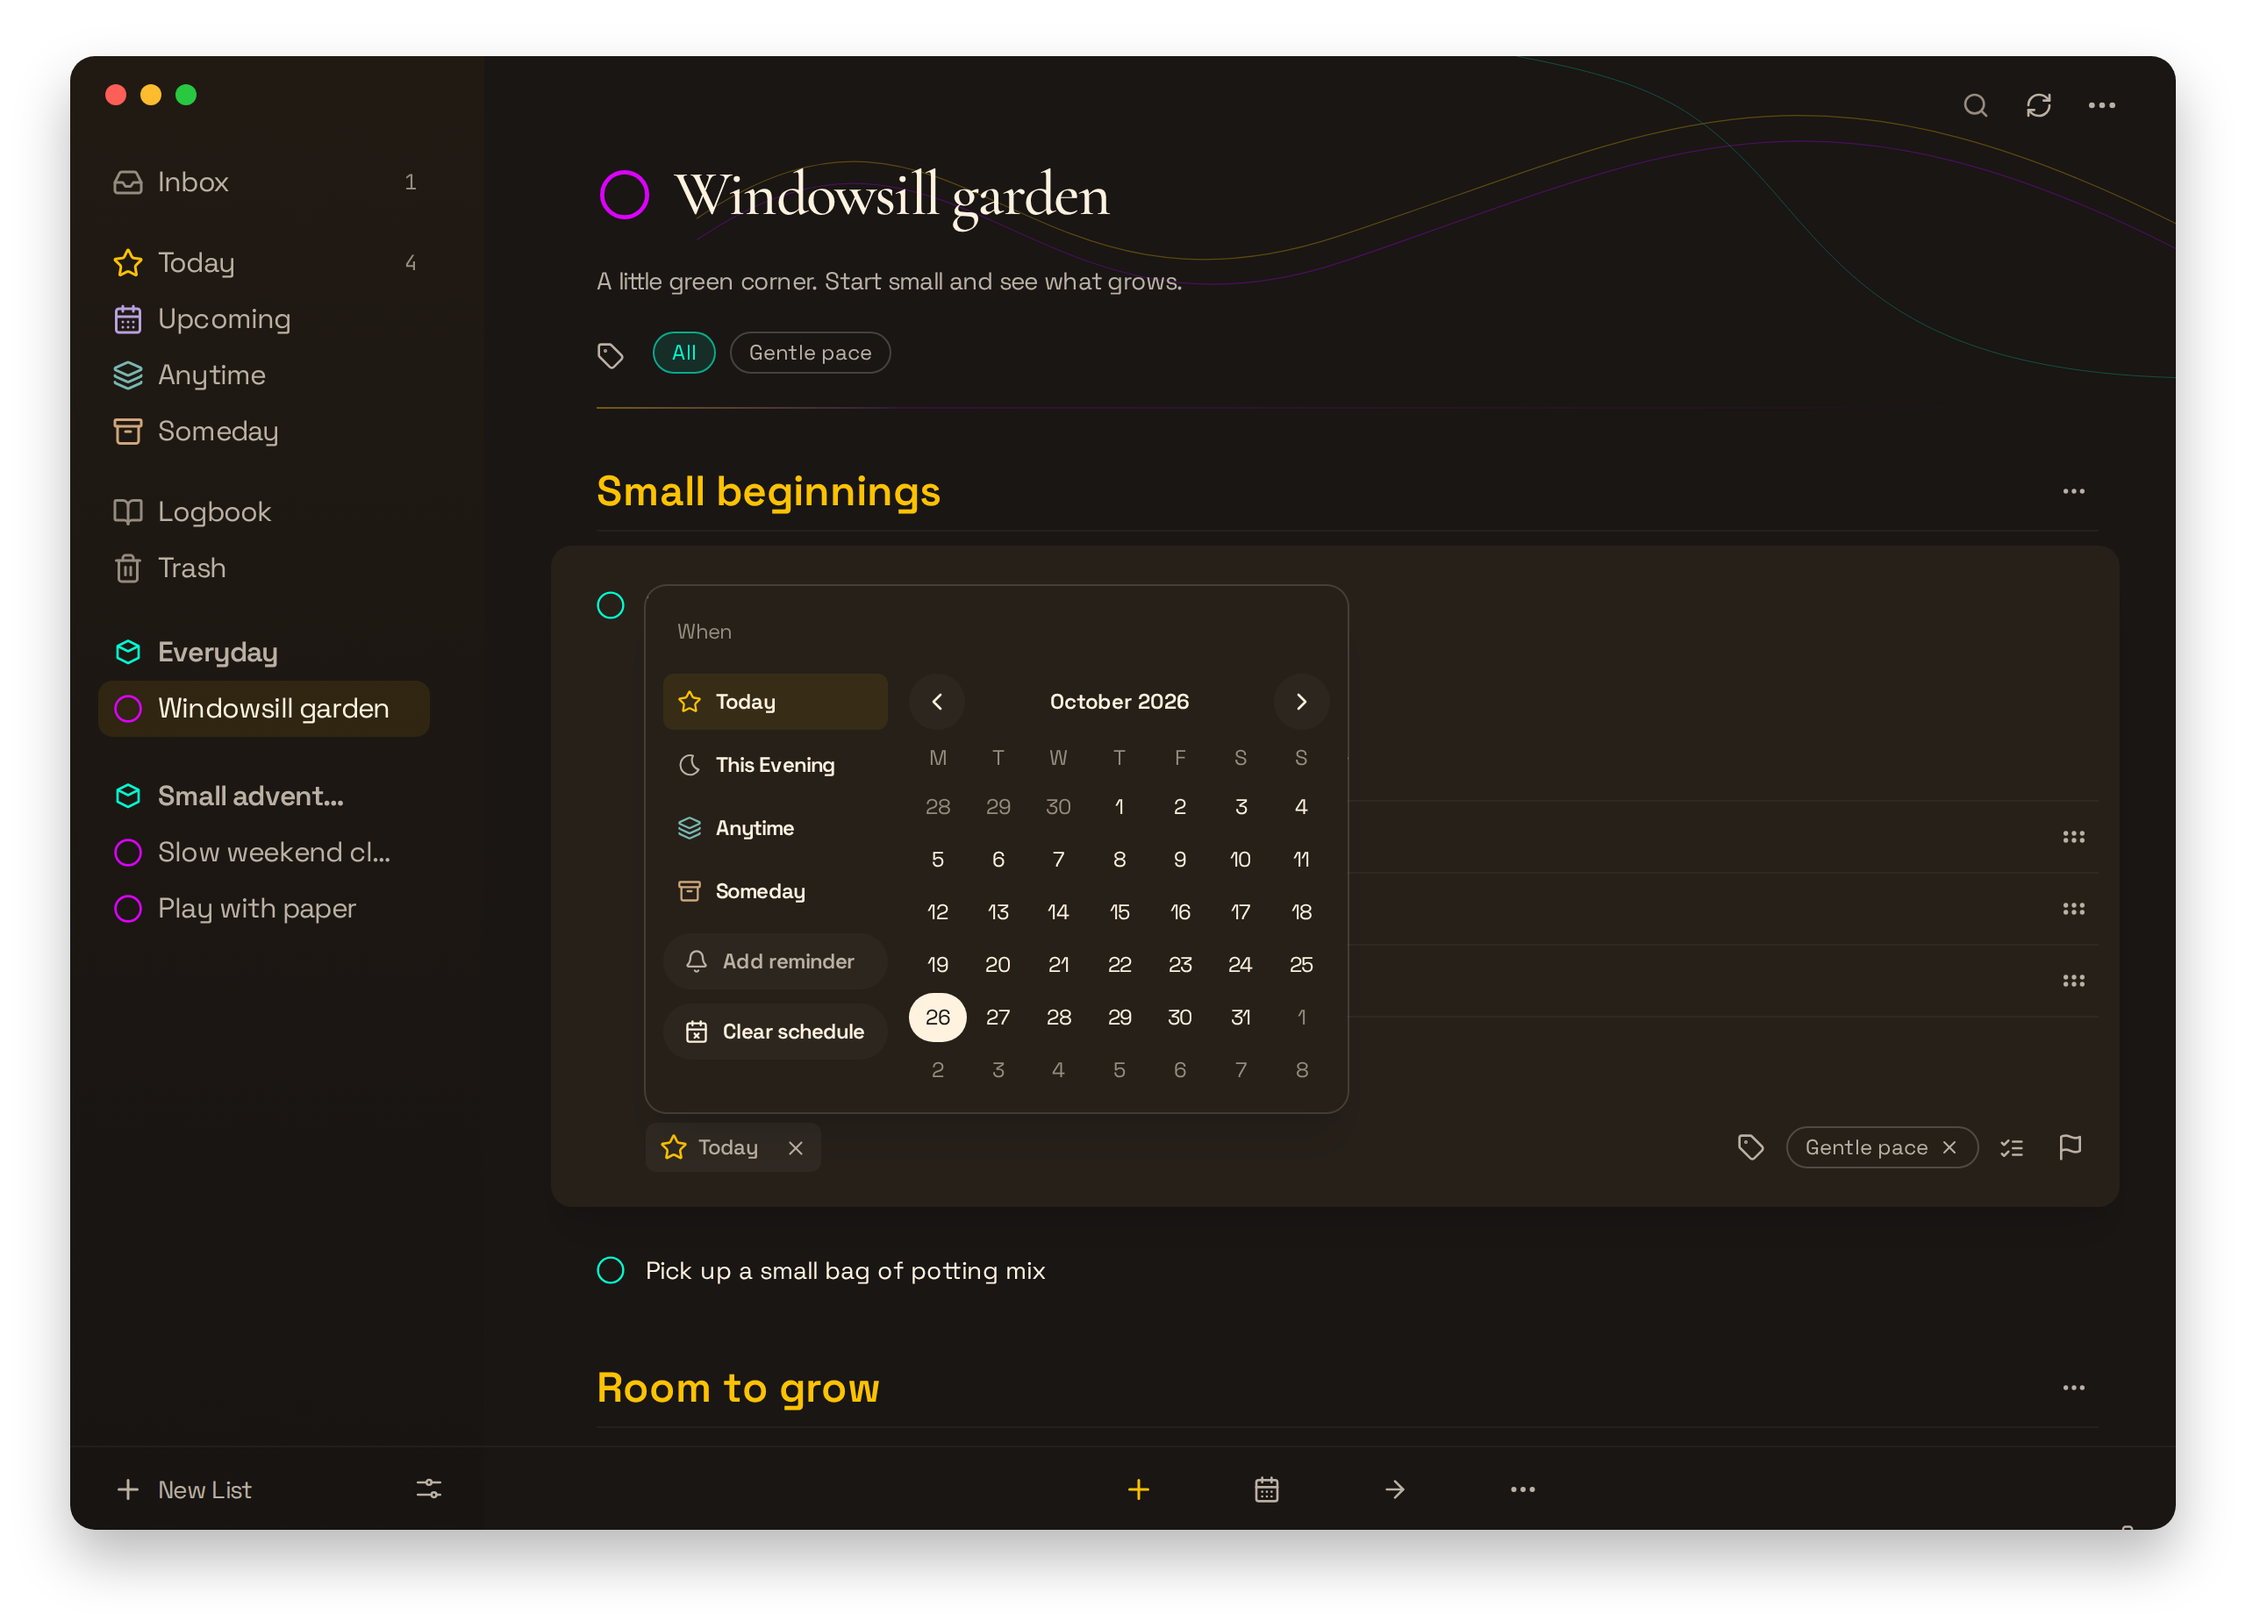
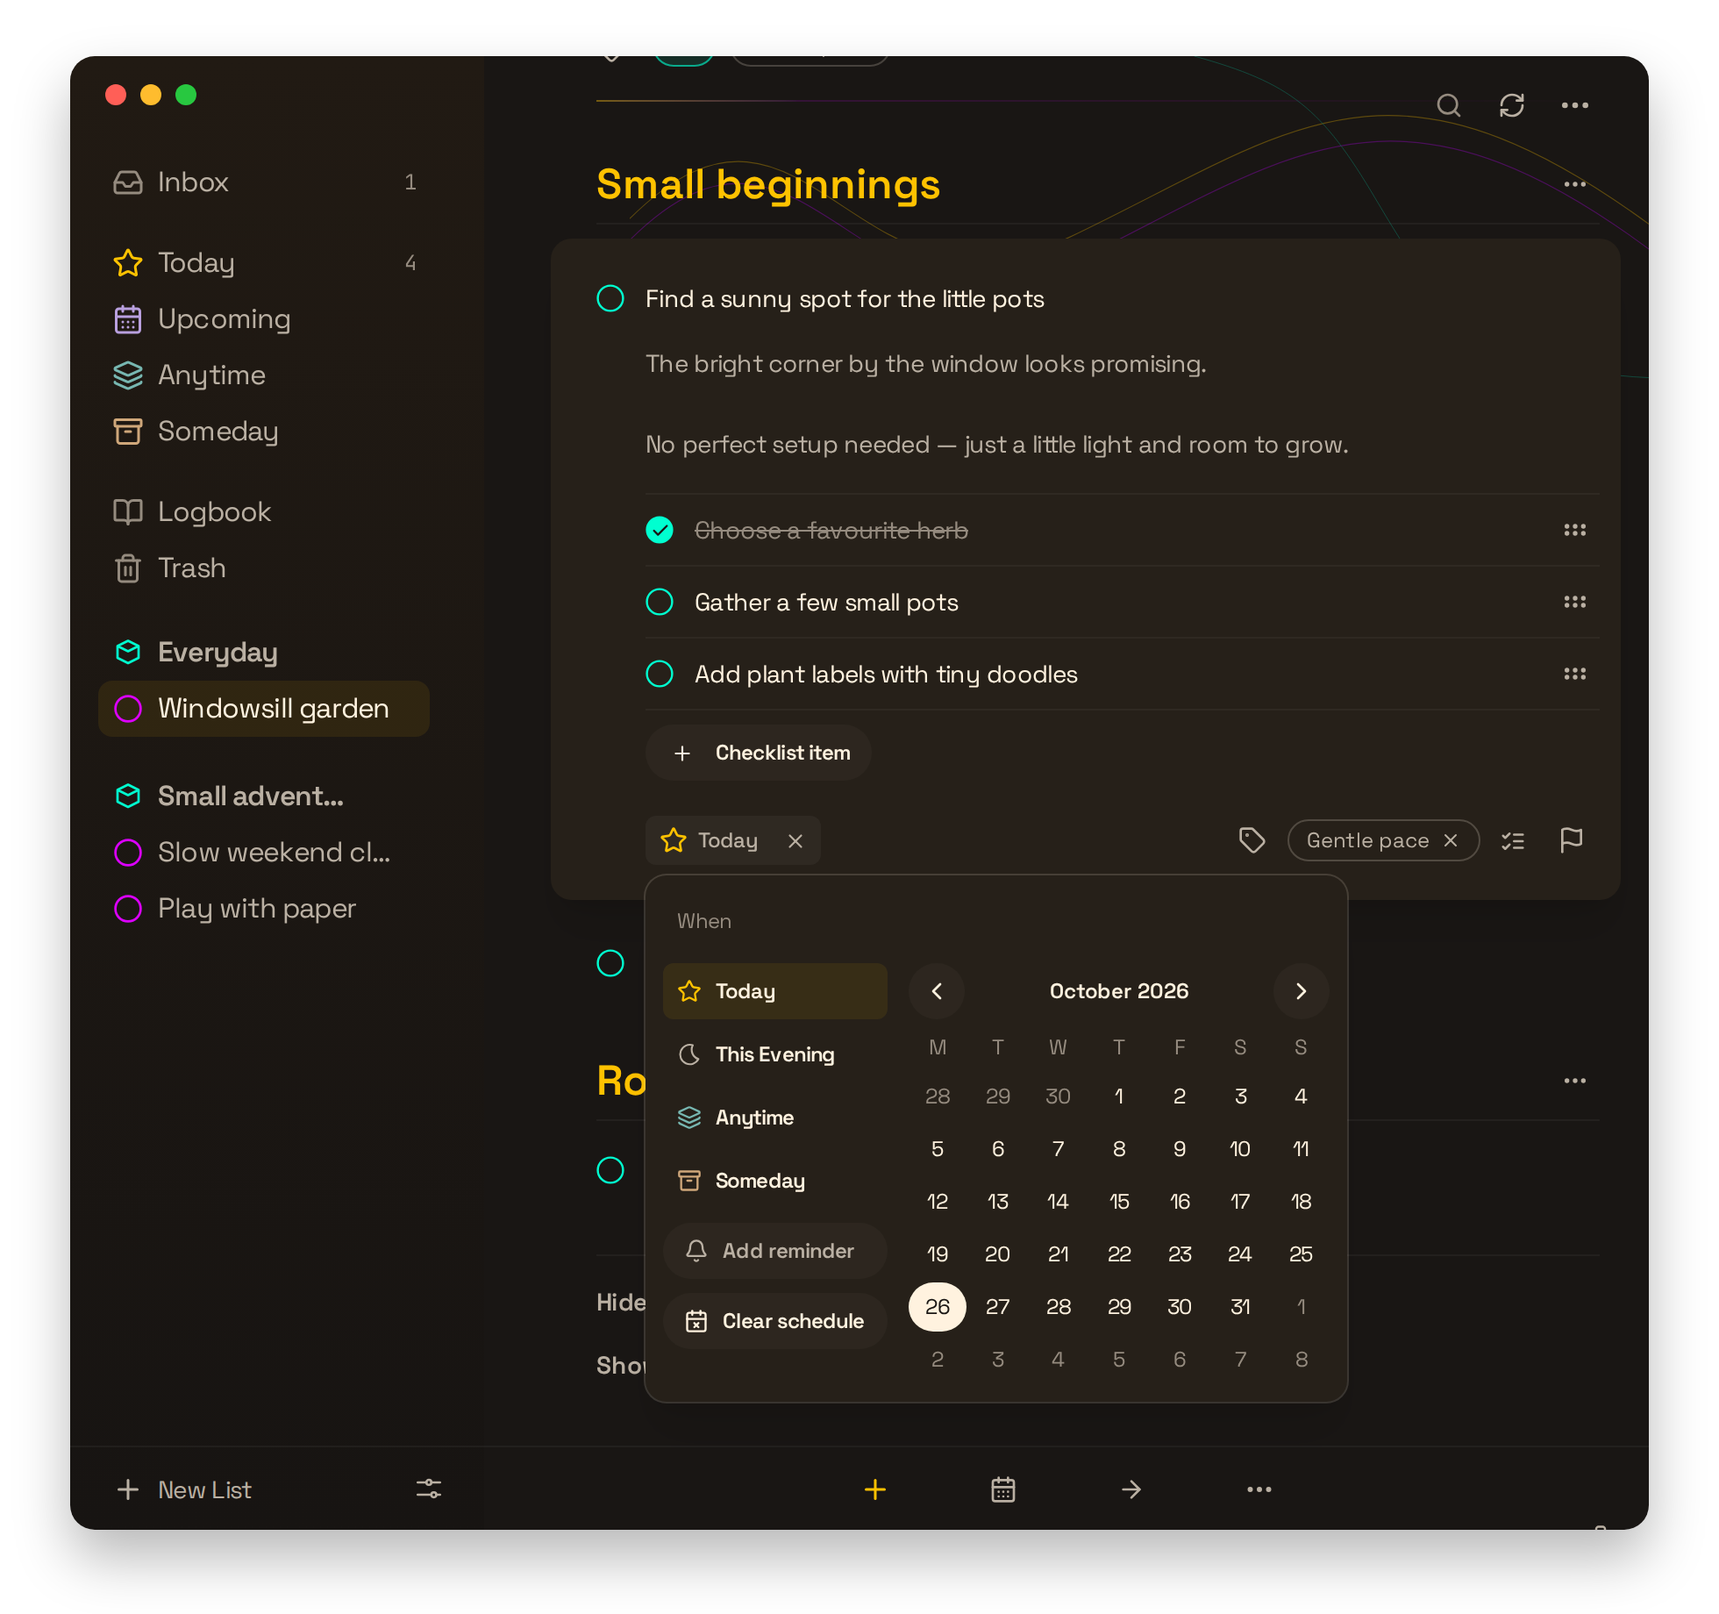
docs: use compact screenshot viewports and position the picker below its trigger

diff --git a/tests/browser/readme-screenshots.ts b/tests/browser/readme-screenshots.ts
@@ -7,13 +7,12 @@ const fixture = readFileSync(
   "utf8",
 );
 
-for (const view of [
-  "today",
-  "project",
-  "upcoming",
-  "schedule",
-] as const) {
+for (const view of ["today", "project", "upcoming", "schedule"] as const) {
   test(`capture ${view}`, async ({ page, context }) => {
+    if (view === "today")
+      await page.setViewportSize({ width: 900, height: 560 });
+    if (view === "upcoming")
+      await page.setViewportSize({ width: 900, height: 680 });
     // A fixed clock and isolated IPC keep captures repeatable and free of personal data.
     await page.clock.setFixedTime(new Date("2026-10-26T10:00:00Z"));
     await page.route("**/*", (route) =>
@@ -162,13 +161,23 @@ for (const view of [
         .getByRole("textbox", { name: "To-do title" })
         .evaluate((el) => (el as HTMLElement).blur());
       if (view === "schedule") {
-        await page
+        const trigger = page
           .locator(".task-editor")
-          .getByRole("button", { name: "When", exact: true })
-          .click();
-        await expect(
-          page.getByRole("dialog", { name: "When", exact: true }),
-        ).toBeVisible();
+          .getByRole("button", { name: "When", exact: true });
+        await trigger.evaluate((el) =>
+          el.scrollIntoView({ block: "center", behavior: "instant" }),
+        );
+        await trigger.click();
+        const picker = page.getByRole("dialog", { name: "When", exact: true });
+        await expect(picker).toBeVisible();
+        await expect
+          .poll(async () => {
+            const anchor = (await trigger.boundingBox())!;
+            const popup = (await picker.boundingBox())!;
+            return popup.y >= anchor.y + anchor.height;
+          })
+          .toBe(true);
+        await expect(picker).toBeInViewport({ ratio: 1 });
       }
     } else {
       if (view === "upcoming") {
@@ -192,6 +201,15 @@ for (const view of [
     await page.evaluate(() => document.fonts.ready);
     await page.mouse.move(0, 0);
     await expect(page.locator(".preview-note")).toBeHidden();
+    const viewport = page.viewportSize()!;
+    if (view === "today" || view === "upcoming") {
+      const lastTask = page.locator(
+        view === "today" ? "#item-tea" : "#item-picnic",
+      );
+      await expect(lastTask).toBeInViewport({ ratio: 1 });
+      const bounds = (await lastTask.boundingBox())!;
+      expect(viewport.height - bounds.y - bounds.height).toBeLessThan(120);
+    }
     const capture = await page.screenshot({
       animations: "disabled",
       caret: "hide",
@@ -200,11 +218,14 @@ for (const view of [
     // Synthetic macOS chrome belongs to the documentation artifact, not the product.
     // CSS here is a standalone capture stage; app UI styling stays in Tailwind.
     const frame = await context.newPage();
-    await frame.setViewportSize({ width: 1280, height: 920 });
+    await frame.setViewportSize({
+      width: viewport.width + 80,
+      height: viewport.height + 80,
+    });
     await frame.setContent(`<!doctype html><html><head><style>
       * { box-sizing: border-box; }
       body { margin: 0; padding: 32px 40px 48px; }
-      main { position: relative; width: 1200px; height: 840px; overflow: hidden;
+      main { position: relative; width: ${viewport.width}px; height: ${viewport.height}px; overflow: hidden;
         border-radius: 14px; box-shadow: 0 16px 32px rgb(0 0 0 / 28%); }
       img { display: block; width: 100%; height: 100%; }
       nav { position: absolute; top: 16px; left: 20px; display: flex; gap: 8px; }

diff --git a/playwright.screenshots.config.ts b/playwright.screenshots.config.ts
@@ -8,7 +8,7 @@ export default defineConfig({
   projects: [{ name: "chromium", use: { browserName: "chromium" } }],
   use: {
     ...config.use,
-    viewport: { width: 1200, height: 840 },
+    viewport: { width: 900, height: 840 },
     deviceScaleFactor: 2,
     locale: "en-GB",
     timezoneId: "UTC",

diff --git a/README.md b/README.md
@@ -15,7 +15,7 @@ and breaking changes. Features and data formats may change without migration sup
 Somedue is an independent, open-source project and is not affiliated with or
 endorsed by Cultured Code, the makers of Things.
 
-<img src="docs/screenshots/today.png" width="480" alt="Today in Somedue's dark theme, with a few creative tasks and a quiet evening planned." />
+<img src="docs/screenshots/today.png" alt="Today in Somedue's dark theme, with a few creative tasks and a quiet evening planned." />
 
 *Today, with fictional tasks. All screenshots use synthetic data and a decorative macOS window frame.*
 
@@ -38,19 +38,19 @@ or use Option ↑ / ↓ while editing an item.
 
 Keep a project in small steps, with notes and a checklist when you need them.
 
-<img src="docs/screenshots/project.png" width="480" alt="A windowsill garden project in the dark theme, with headings, notes, and an open task checklist." />
+<img src="docs/screenshots/project.png" alt="A windowsill garden project in the dark theme, with headings, notes, and an open task checklist." />
 
 ### Plan ahead
 
 Upcoming gives scheduled tasks a place in the days ahead.
 
-<img src="docs/screenshots/upcoming.png" width="480" alt="Upcoming in the dark theme, with a book swap, a drawing idea, and a park picnic scheduled across the week." />
+<img src="docs/screenshots/upcoming.png" alt="Upcoming in the dark theme, with a book swap, a drawing idea, and a park picnic scheduled across the week." />
 
 ### Schedule a task
 
 Choose a start date without leaving the task you're editing.
 
-<img src="docs/screenshots/schedule.png" width="480" alt="The scheduling picker open beside a garden task, with Today, This Evening, and calendar choices." />
+<img src="docs/screenshots/schedule.png" alt="The scheduling picker open beside a garden task, with Today, This Evening, and calendar choices." />
 
 ## Current limitations
 

diff --git a/AGENTS.md b/AGENTS.md
@@ -18,7 +18,9 @@ fixture in `tests/browser/readme-screenshots.ts` serene, playful, and non-biased
 capture personal tasks, credentials, or Things Cloud data. Update README image
 references and captions when the views change.
 
-Keep README images at `width="480"` with their aspect ratio preserved. The capture
-script hides the browser preview notice only while taking screenshots and adds
+Use compact app viewports for Today and Upcoming to avoid large empty areas;
+do not shrink README images with fixed display widths. Keep image proportions intact. The
+capture script sizes the window frame to each viewport, hides the browser preview
+notice only while taking screenshots and adds
 synthetic macOS traffic lights, rounded corners, and soft shadows. Preserve this
 presentation when refreshing images; do not change the app for screenshot framing.
